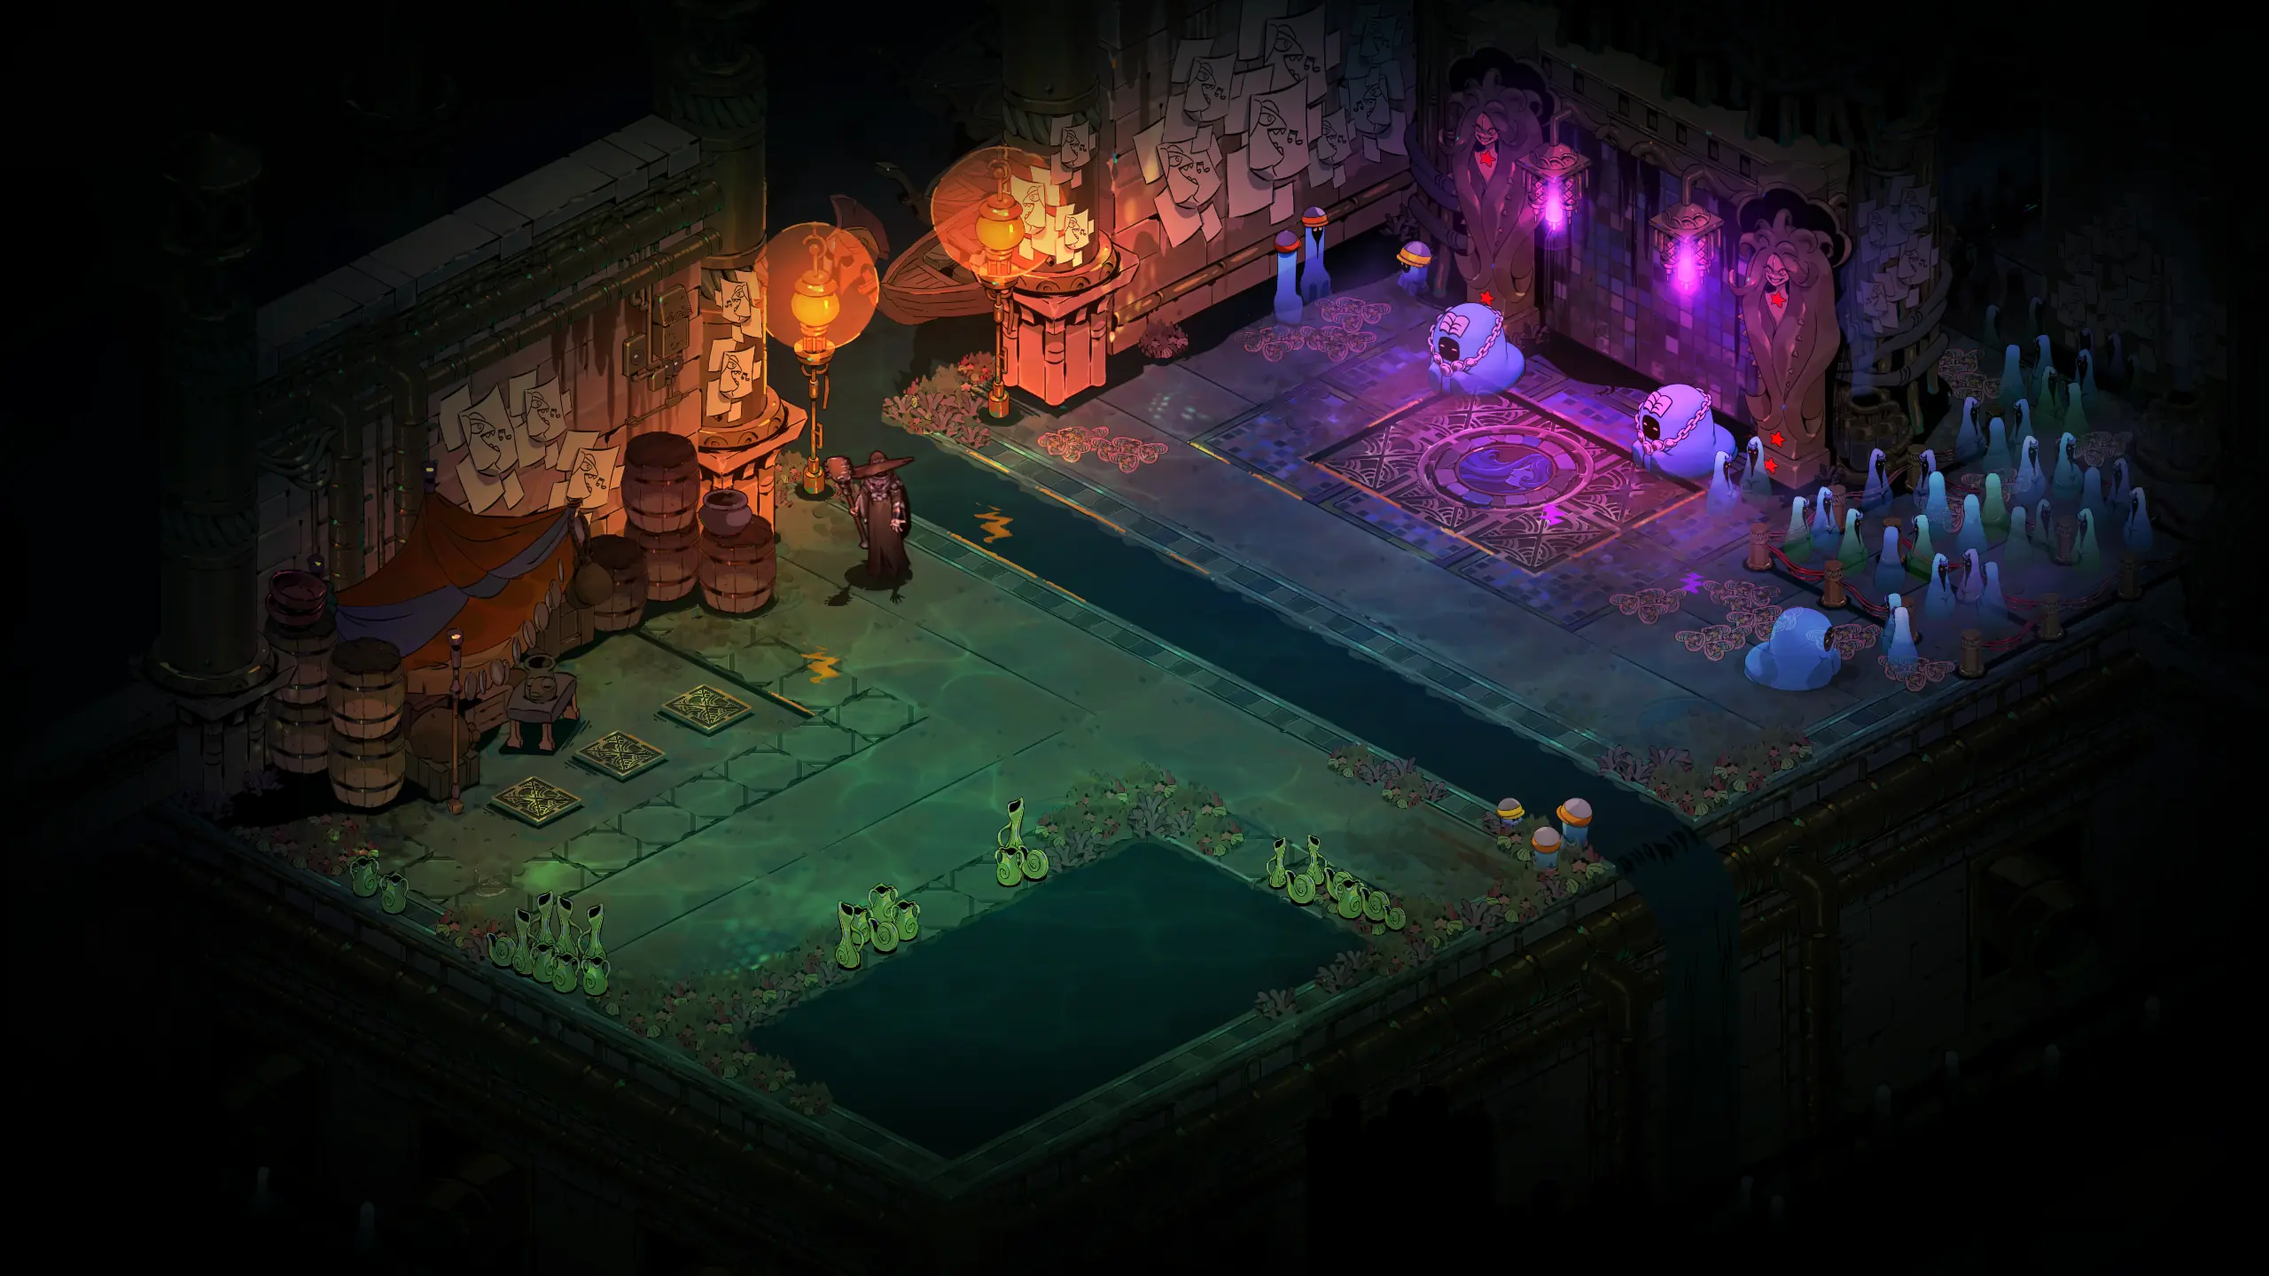
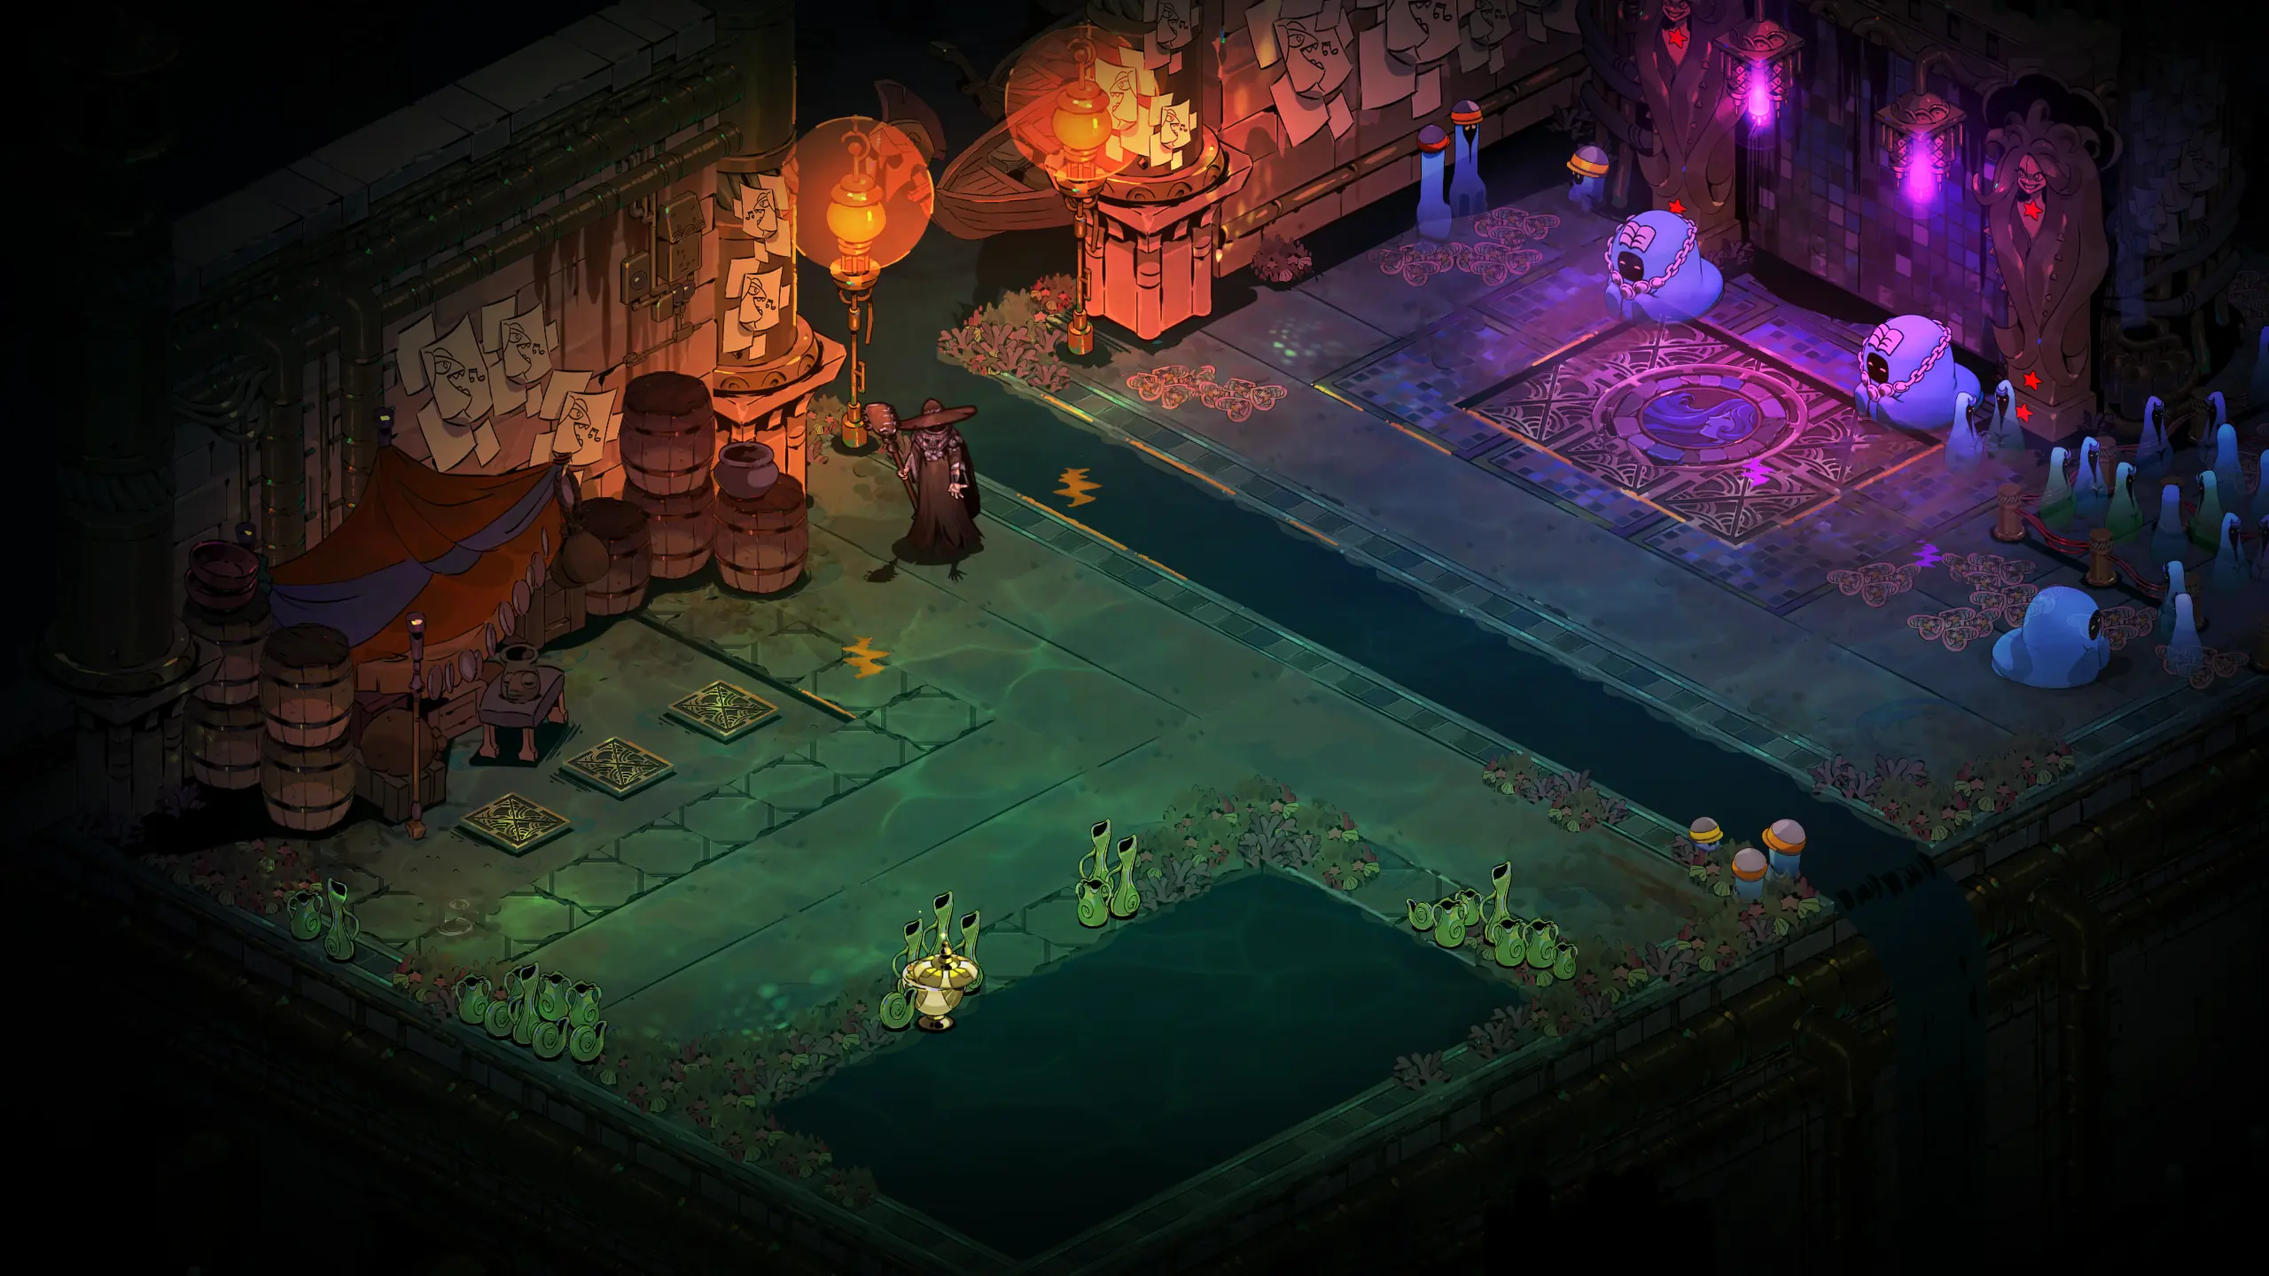
feat(planner): recapture Shop and Preboss maps with empty pads and draw an off-frame entry at the edge

diff --git a/apps/planner/src/ui/room-maps/roomMapCalibration.ts b/apps/planner/src/ui/room-maps/roomMapCalibration.ts
@@ -106,13 +106,13 @@ export const roomMapCalibrations: Readonly<Record<string, RoomMapCalibration>> =
     targetY: 10847.0811,
     scale: 0.5333,
   },
-  F_PreBoss01: { width: 2560, height: 1440, targetX: 7223.9775, targetY: 8796.1172, scale: 0.6667 },
+  F_PreBoss01: { width: 2560, height: 1440, targetX: 6823.9775, targetY: 8696.1172, scale: 0.6 },
   F_PreBoss01_Shop: {
     width: 2560,
     height: 1440,
-    targetX: 6995.9775,
-    targetY: 8674.1172,
-    scale: 0.6133,
+    targetX: 6823.9775,
+    targetY: 8696.1172,
+    scale: 0.6,
   },
   F_Reprieve01: {
     width: 2560,
@@ -121,7 +121,7 @@ export const roomMapCalibrations: Readonly<Record<string, RoomMapCalibration>> =
     targetY: 9212.3604,
     scale: 0.6667,
   },
-  F_Shop01: { width: 2560, height: 1440, targetX: 10746.8115, targetY: 9497.3652, scale: 0.5333 },
+  F_Shop01: { width: 2560, height: 1440, targetX: 10646.8115, targetY: 9497.3652, scale: 0.5333 },
   F_Story01: { width: 2560, height: 1440, targetX: 7353.8188, targetY: 9540.8262, scale: 0.6667 },
   G_Boss01: { width: 2560, height: 1440, targetX: 6417.6045, targetY: 8576.9434, scale: 0.6667 },
   G_Boss02: { width: 2560, height: 1440, targetX: 6765.1567, targetY: 8844.5488, scale: 0.6 },
@@ -183,16 +183,16 @@ export const roomMapCalibrations: Readonly<Record<string, RoomMapCalibration>> =
   G_PreBoss01: {
     width: 2560,
     height: 1440,
-    targetX: 6301.9131,
-    targetY: 12495.1807,
+    targetX: 6101.9131,
+    targetY: 12595.1807,
     scale: 0.7333,
   },
   G_PreBoss01_Shop: {
     width: 2560,
     height: 1440,
-    targetX: 6273.9131,
-    targetY: 12573.1807,
-    scale: 0.6,
+    targetX: 6101.9131,
+    targetY: 12595.1807,
+    scale: 0.7333,
   },
   G_Reprieve01: {
     width: 2560,
@@ -201,11 +201,18 @@ export const roomMapCalibrations: Readonly<Record<string, RoomMapCalibration>> =
     targetY: 8878.9209,
     scale: 0.7333,
   },
-  G_Shop01: { width: 2560, height: 1440, targetX: 6843.4805, targetY: 8456.626, scale: 0.8 },
+  G_Shop01: { width: 2560, height: 1440, targetX: 6843.4805, targetY: 8556.626, scale: 0.6667 },
   G_Story01: { width: 2560, height: 1440, targetX: 9019.6709, targetY: 10843.0557, scale: 0.6 },
   H_Boss01: { width: 2560, height: 1440, targetX: 6608.2031, targetY: 9377.4092, scale: 0.4 },
   H_Boss02: { width: 2560, height: 1440, targetX: 12077.2637, targetY: 9026.6064, scale: 0.4667 },
-  H_Bridge01: { width: 2560, height: 1440, targetX: 14904.8281, targetY: 8603.5283, scale: 0.2667 },
+  H_Bridge01: { width: 2560, height: 1440, targetX: 14504.8281, targetY: 8903.5283, scale: 0.2933 },
+  H_Bridge01_Shop: {
+    width: 2560,
+    height: 1440,
+    targetX: 14504.8281,
+    targetY: 8903.5283,
+    scale: 0.2933,
+  },
   H_Combat01: { width: 2560, height: 1440, targetX: 8947.3105, targetY: 7910.3506, scale: 0.1798 },
   H_Combat02: { width: 2560, height: 1440, targetX: 14104.4258, targetY: 8994.8125, scale: 0.2533 },
   H_Combat03: { width: 2560, height: 1440, targetX: 9697.6445, targetY: 7796.3872, scale: 0.2533 },
@@ -259,9 +266,9 @@ export const roomMapCalibrations: Readonly<Record<string, RoomMapCalibration>> =
   H_PreBoss01_Shop: {
     width: 2560,
     height: 1440,
-    targetX: 8457.2432,
-    targetY: 15507.9707,
-    scale: 0.4533,
+    targetX: 8785.2432,
+    targetY: 15429.9707,
+    scale: 0.5333,
   },
   I_Boss01: { width: 2560, height: 1440, targetX: 3958.2288, targetY: 4173.9873, scale: 0.6 },
   I_Combat01: { width: 2560, height: 1440, targetX: 5877.7217, targetY: 8767.0059, scale: 0.4667 },
@@ -315,8 +322,8 @@ export const roomMapCalibrations: Readonly<Record<string, RoomMapCalibration>> =
   I_Intro: { width: 2560, height: 1440, targetX: 13465.6494, targetY: 11578.8135, scale: 0.5333 },
   I_MiniBoss01: { width: 2560, height: 1440, targetX: 7316.4966, targetY: 9411.7168, scale: 0.6 },
   I_MiniBoss02: { width: 2560, height: 1440, targetX: 7923.6846, targetY: 9651.0449, scale: 0.6 },
-  I_PreBoss01: { width: 2560, height: 1440, targetX: 3354.366, targetY: 4794.4185, scale: 0.6667 },
-  I_PreBoss02: { width: 2560, height: 1440, targetX: 3726.366, targetY: 4672.4185, scale: 0.56 },
+  I_PreBoss01: { width: 2560, height: 1440, targetX: 3554.366, targetY: 4694.4185, scale: 0.6267 },
+  I_PreBoss02: { width: 2560, height: 1440, targetX: 3554.366, targetY: 4694.4185, scale: 0.6267 },
   I_Reprieve01: { width: 2560, height: 1440, targetX: 5736.856, targetY: 3685.2573, scale: 0.5333 },
   I_Story01: { width: 2560, height: 1440, targetX: 5454.7168, targetY: 5383.8901, scale: 0.7333 },
   N_Boss01: { width: 2560, height: 1440, targetX: 6169.6504, targetY: 9024.4248, scale: 0.6 },
@@ -367,16 +374,9 @@ export const roomMapCalibrations: Readonly<Record<string, RoomMapCalibration>> =
   },
   N_Opening01: { width: 2560, height: 1440, targetX: 5349.9717, targetY: 9924.0488, scale: 0.6 },
   N_PostBoss01: { width: 2560, height: 1440, targetX: 9171.4902, targetY: 10989.7285, scale: 0.6 },
-  N_PreBoss01: { width: 2560, height: 1440, targetX: 6101.8711, targetY: 9304.626, scale: 0.6 },
-  N_PreBoss01_Shop: {
-    width: 2560,
-    height: 1440,
-    targetX: 6273.8711,
-    targetY: 9082.626,
-    scale: 0.6667,
-  },
+  N_PreBoss01: { width: 2560, height: 1440, targetX: 6301.8711, targetY: 9004.626, scale: 0.68 },
   N_PreHub01: { width: 2560, height: 1440, targetX: 9909.1895, targetY: 7135.5117, scale: 0.8 },
-  N_Shop01: { width: 2560, height: 1440, targetX: 7189.8223, targetY: 8961.1855, scale: 0.8 },
+  N_Shop01: { width: 2560, height: 1440, targetX: 7089.8223, targetY: 8961.1855, scale: 0.6933 },
   N_Story01: { width: 2560, height: 1440, targetX: 7087.6748, targetY: 9274.5537, scale: 0.8 },
   N_Sub01: { width: 2560, height: 1440, targetX: 7198.9102, targetY: 8847.2119, scale: 1.0667 },
   N_Sub02: { width: 2560, height: 1440, targetX: 6961.8706, targetY: 8828.793, scale: 1.0667 },
@@ -424,16 +424,9 @@ export const roomMapCalibrations: Readonly<Record<string, RoomMapCalibration>> =
   O_PreBoss01: {
     width: 2560,
     height: 1440,
-    targetX: 11752.8447,
-    targetY: 12846.9883,
-    scale: 0.6667,
-  },
-  O_PreBoss01_Shop: {
-    width: 2560,
-    height: 1440,
     targetX: 11552.8447,
-    targetY: 12946.9883,
-    scale: 0.6,
+    targetY: 12846.9883,
+    scale: 0.6533,
   },
   O_Reprieve01: {
     width: 2560,
@@ -442,7 +435,7 @@ export const roomMapCalibrations: Readonly<Record<string, RoomMapCalibration>> =
     targetY: 17964.5078,
     scale: 0.6667,
   },
-  O_Shop01: { width: 2560, height: 1440, targetX: 11798.3848, targetY: 12866.9541, scale: 0.6667 },
+  O_Shop01: { width: 2560, height: 1440, targetX: 11598.3848, targetY: 12966.9541, scale: 0.6533 },
   O_Story01: { width: 2560, height: 1440, targetX: 14072.9453, targetY: 17745.3945, scale: 0.4 },
   P_Boss01: { width: 2560, height: 1440, targetX: 7720.0972, targetY: 8655.2109, scale: 0.8 },
   P_Combat01: { width: 2560, height: 1440, targetX: 5683.6475, targetY: 8826.8623, scale: 0.5333 },
@@ -484,12 +477,12 @@ export const roomMapCalibrations: Readonly<Record<string, RoomMapCalibration>> =
   P_PreBoss01_Shop: {
     width: 2560,
     height: 1440,
-    targetX: 23183.0293,
+    targetX: 23283.0293,
     targetY: 20961.5352,
-    scale: 0.4,
+    scale: 0.4133,
   },
   P_Reprieve01: { width: 2560, height: 1440, targetX: 24425.3301, targetY: 21645.3828, scale: 0.6 },
-  P_Shop01: { width: 2560, height: 1440, targetX: 19516.623, targetY: 18429.2266, scale: 0.4667 },
+  P_Shop01: { width: 2560, height: 1440, targetX: 19516.623, targetY: 18529.2266, scale: 0.5067 },
   P_Story01: { width: 2560, height: 1440, targetX: 19646.2539, targetY: 16572.293, scale: 0.4 },
   Q_Boss01: { width: 2560, height: 1440, targetX: 5021.73, targetY: 8495.5078, scale: 0.5333 },
   Q_Boss02: { width: 2560, height: 1440, targetX: 5021.73, targetY: 8495.5078, scale: 0.5333 },
@@ -529,8 +522,8 @@ export const roomMapCalibrations: Readonly<Record<string, RoomMapCalibration>> =
   Q_PreBoss01: {
     width: 2560,
     height: 1440,
-    targetX: 25456.7617,
-    targetY: 18998.1836,
-    scale: 0.2667,
+    targetX: 25256.7617,
+    targetY: 17998.1836,
+    scale: 0.4133,
   },
 });

diff --git a/apps/planner/src/projections/roomMapMarkers.ts b/apps/planner/src/projections/roomMapMarkers.ts
@@ -21,6 +21,15 @@ export interface RoomMapMarkerPosition {
   readonly top: number;
 }
 
+/**
+ * An entry the capture leaves out of frame: drawn at the frame's edge, with the
+ * sides it lies beyond.
+ */
+export interface RoomMapOffFrame {
+  readonly x?: 'left' | 'right';
+  readonly y?: 'above' | 'below';
+}
+
 export interface RoomMapMarkers {
   readonly doors: readonly (RoomMapMarkerPosition & {
     readonly id: number;
@@ -30,7 +39,10 @@ export interface RoomMapMarkers {
     readonly id: number;
     readonly slotKey: string;
   })[];
-  readonly entries: readonly (RoomMapMarkerPosition & { readonly id: number })[];
+  readonly entries: readonly (RoomMapMarkerPosition & {
+    readonly id: number;
+    readonly offFrame?: RoomMapOffFrame;
+  })[];
   readonly anchors: readonly (RoomMapMarkerPosition & { readonly id: number })[];
   readonly chaosPoints: readonly (RoomMapMarkerPosition & { readonly id: number })[];
   readonly chaosGate?: RoomMapMarkerPosition & { readonly id: number };
@@ -60,9 +72,31 @@ export function roomMapPosition(
   };
 }
 
+/** How far inside the frame, in percent, an off-frame entry is drawn. */
+const offFrameInset = { x: 3, y: 5 } as const;
+
+/** Keeps a position on the frame, naming the sides it lay beyond. */
+function inFrame(marker: RoomMapMarkerPosition): RoomMapMarkerPosition & {
+  readonly offFrame?: RoomMapOffFrame;
+} {
+  const clamp = (value: number, inset: number) => Math.min(Math.max(value, inset), 100 - inset);
+  const x = marker.left < 0 ? 'left' : marker.left > 100 ? 'right' : undefined;
+  const y = marker.top < 0 ? 'above' : marker.top > 100 ? 'below' : undefined;
+  if (x === undefined && y === undefined) return marker;
+  return {
+    left: x === undefined ? marker.left : clamp(marker.left, offFrameInset.x),
+    top: y === undefined ? marker.top : clamp(marker.top, offFrameInset.y),
+    offFrame: Object.freeze({
+      ...(x === undefined ? {} : { x }),
+      ...(y === undefined ? {} : { y }),
+    }),
+  };
+}
+
 /**
  * Places the room's map points on its calibrated image. A flipped room shows
- * its image mirrored, each point at the mirrored pixel (x' = width - x).
+ * its image mirrored, each point at the mirrored pixel (x' = width - x). An
+ * entry outside the captured frame is drawn at its edge.
  */
 export function roomMapMarkers(
   map: WorkspaceRoomMap,
@@ -89,7 +123,7 @@ export function roomMapMarkers(
       ),
     ),
     entries: Object.freeze(
-      map.entries.map((entry) => Object.freeze({ id: entry.id, ...place(entry) })),
+      map.entries.map((entry) => Object.freeze({ id: entry.id, ...inFrame(place(entry)) })),
     ),
     anchors: Object.freeze(
       map.anchors.map((anchor) => Object.freeze({ id: anchor.id, ...place(anchor) })),

diff --git a/apps/planner/src/ui/room-maps/roomMapAssets.ts b/apps/planner/src/ui/room-maps/roomMapAssets.ts
@@ -4,13 +4,13 @@ import { roomMapCalibrations } from './roomMapCalibration';
 
 export interface RoomMapAsset {
   readonly gameName: string;
-  /** The image's own name: the game name, suffixed `_Shop` for a Preboss's Shop variant. */
+  /** The image's own name: the game name, suffixed `_Shop` for a room's Shop variant. */
   readonly imageName: string;
   readonly isPlaceholder: boolean;
   readonly src: string;
 }
 
-/** A Preboss's Shop variant: Charon and his stall stand on the same terrain and points. */
+/** A room's Shop variant, where it may hold a shop or a free reward: same terrain and points. */
 const shopVariantSuffix = '_Shop';
 
 const assetModules = import.meta.glob<string>('./assets/**/*.{avif,jpeg,jpg,png,svg,webp}', {
@@ -49,7 +49,7 @@ export const roomMapAssets = Object.freeze(
   allRoomMapAssets.filter((asset) => asset.imageName === asset.gameName),
 );
 
-/** The Preboss Shop variants, each beside its room's free-reward map. */
+/** The Shop variants, each beside its room's free-reward map. */
 export const roomMapShopAssets = Object.freeze(
   allRoomMapAssets.filter((asset) => asset.imageName !== asset.gameName),
 );

diff --git a/apps/planner/src/ui/room-maps/room-maps.css b/apps/planner/src/ui/room-maps/room-maps.css
@@ -567,6 +567,44 @@
   outline-offset: 3px;
 }
 
+/* An entry beyond the captured frame: at its edge, an arrow pointing out toward it. */
+.room-map-entry:is([data-off-frame-x], [data-off-frame-y])::after {
+  content: '';
+  position: absolute;
+  left: 50%;
+  top: 50%;
+  width: 0;
+  height: 0;
+  border: 7px solid transparent;
+  filter: drop-shadow(0 1px 1px rgb(0 0 0 / 80%));
+}
+
+.room-map-entry[data-off-frame-y='below']::after {
+  top: 100%;
+  border-top-color: #fff4c7;
+  transform: translate(-50%, 2px);
+}
+
+.room-map-entry[data-off-frame-y='above']::after {
+  top: auto;
+  bottom: 100%;
+  border-bottom-color: #fff4c7;
+  transform: translate(-50%, -2px);
+}
+
+.room-map-entry[data-off-frame-x='right']:not([data-off-frame-y])::after {
+  left: 100%;
+  border-left-color: #fff4c7;
+  transform: translate(2px, -50%);
+}
+
+.room-map-entry[data-off-frame-x='left']:not([data-off-frame-y])::after {
+  left: auto;
+  right: 100%;
+  border-right-color: #fff4c7;
+  transform: translate(-2px, -50%);
+}
+
 /* A door: its chip once open, a dashed ring while closed. */
 .room-map-door {
   display: inline-flex;

diff --git a/apps/planner/test/ui/room-maps/roomMapAssets.test.ts b/apps/planner/test/ui/room-maps/roomMapAssets.test.ts
@@ -60,7 +60,12 @@ describe('room map assets', () => {
       ),
     ).toEqual([]);
     for (const asset of roomMapShopAssets) {
-      expect(catalog.rooms.byKey[asset.gameName]?.kind, asset.imageName).toBe('Preboss');
+      const room = catalog.rooms.byKey[asset.gameName];
+      expect(
+        room?.kind === 'Preboss' ||
+          (room?.routeOverlays?.some((overlay) => overlay.kind === 'Shop') ?? false),
+        asset.imageName,
+      ).toBe(true);
       expect(roomMapCalibrations[asset.imageName], asset.imageName).toBeDefined();
     }
   });

diff --git a/apps/planner/src/ui/editor/biome/room-map/RoomMapPoints.tsx b/apps/planner/src/ui/editor/biome/room-map/RoomMapPoints.tsx
@@ -172,6 +172,8 @@ export function RoomMapSpots({
             className="room-map-entry"
             data-chosen={chosen || undefined}
             data-dim={(picking?.id !== undefined && picking.id !== entry.id) || undefined}
+            data-off-frame-x={entry.offFrame?.x}
+            data-off-frame-y={entry.offFrame?.y}
             data-preview={previewed('entry', entry.id)}
             data-unset={shown.mark === '?' || undefined}
             key={`entry:${entry.id}`}

diff --git a/apps/planner/src/ui/editor/biome/room-map/RoomMapColumn.tsx b/apps/planner/src/ui/editor/biome/room-map/RoomMapColumn.tsx
@@ -60,7 +60,7 @@ export function RoomMapColumn({
   readonly map: WorkspaceRoomMap;
   /** A different room never inherits this map's pan and zoom. */
   readonly roomIdentity: string;
-  /** The occurrence holds a shop: a Preboss shows its Shop variant. */
+  /** The occurrence holds a shop: shown on its room's Shop variant where one exists. */
   readonly shop?: boolean | undefined;
   readonly stage: RoomMapStage;
   readonly title: string;

diff --git a/apps/planner/src/ui/room-maps/README.md b/apps/planner/src/ui/room-maps/README.md
@@ -24,9 +24,15 @@ WebPs unless replacing them from a source image. For example:
 convert source.png -quality 90 -define webp:method=6 -define webp:lossless=false RoomName.webp
 ```
 
-A Preboss that holds a shop has a second image, `<room>_Shop` (Charon, his
-stall and its item pads on the same terrain), shown for an occurrence whose
-room holds a shop; it has its own calibration and the room's points.
+A room that holds either a shop or a free reward (the F, G, H and P Prebosses,
+`H_Bridge01`) has a second image, `<room>_Shop` (Charon and his empty item pads
+on the same terrain), shown for an occurrence whose room holds a shop; it has
+its own calibration and the room's points. A room that always holds a shop
+(Shop rooms, the I, N, O and Q Prebosses) has only its own image, captured with
+the shop and its pads empty.
+
+An entry the capture leaves out of frame (the Q Preboss's, far below) is drawn
+at the frame's edge with an arrow toward it.
 
 Every map is a clean capture: `roomMapCalibration.ts` records each image's capture camera and the
 editor draws their points from the catalog's map points. Regenerate it from the
